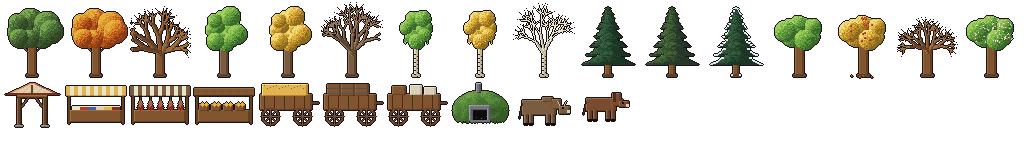
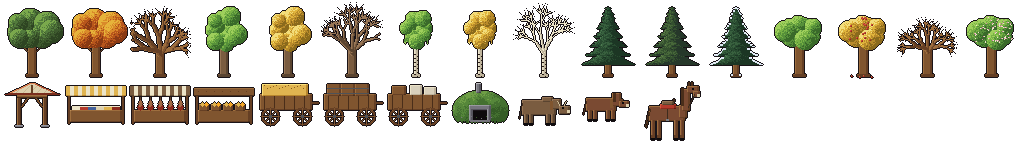
WIP checkpoint: horses/carts and trade/inventory in progress [skip ci]
Claude-Session: https://claude.ai/code/session_01JSaymTQgiZBzVi5neuBB16

Changed region(s): [[0.625, 0.5, 0.6875, 0.875]]

diff --git a/src/Ravensguard.Game/World/RideSprites.cs b/src/Ravensguard.Game/World/RideSprites.cs
@@ -17,7 +17,7 @@ public sealed class RideSprites
 {
     const int Tile = 32;
     /// <summary>How far the rider's feet are lifted: onto the horse's back, legs behind its barrel.</summary>
-    public const float RiderLift = 21f;
+    public const float RiderLift = 24f;
     public const float BenchLift = 17f;
     readonly Node2D _parent; readonly ArtAtlas _art;
     readonly Dictionary<EntityId, Sprite2D> _animals = new(), _vehicles = new();
@@ -30,13 +30,13 @@ public sealed class RideSprites
     public int Count => _animals.Count + _vehicles.Count;
 
     /// <summary>What the hero's sprite should do this frame: how far to lift it, and whether it is on a mount or a bench (a seated pose is not drawn; the standing one is).</summary>
-    public readonly record struct HeroSeat(float Lift, bool Seated);
+    public readonly record struct HeroSeat(float Lift, bool Seated, Facing Facing);
 
     public HeroSeat Sync(RideBook book, Facing heroFacing, bool heroMoving, Vector2 heroFeet, double delta, bool visible)
     {
         _t += delta; _seen.Clear();
         bool heroEast = heroFacing == Facing.East, heroWest = heroFacing == Facing.West;
-        float lift = 0f; bool seated = false;
+        float lift = 0f; bool seated = false; var seatFacing = Facing.East;
         var mounted = book.IsMounted ? book.Mounted : EntityId.None; var driving = book.DrivenVehicle;
         foreach (var a in book.Animals.Rows)
         {
@@ -47,8 +47,8 @@ public sealed class RideSprites
             if (ridden)
             {
                 if (heroEast) _flip[a.Id] = false; else if (heroWest) _flip[a.Id] = true;
-                node.Position = heroFeet + new Vector2(0, 1);
-                lift = RiderLift; seated = true;
+                node.Position = heroFeet + new Vector2(0, -1);                                  // a pixel behind the rider, so the horse is drawn first
+                lift = RiderLift; seated = true; seatFacing = _flip[a.Id] ? Facing.West : Facing.East;
                 // a little bob at a trot
                 if (heroMoving) node.Position += new Vector2(0, (float)Math.Round(Math.Sin(_t * 14) * 1.0));
             }
@@ -63,9 +63,9 @@ public sealed class RideSprites
             bool driven = driving != null && driving.Id == v.Id;
             if (driven) { if (heroEast) _flip[v.Id] = false; else if (heroWest) _flip[v.Id] = true; }
             bool west = _flip.GetValueOrDefault(v.Id, false);
-            var pos = driven ? heroFeet + new Vector2(0, -2) : ToPx(v.XMm, v.YMm);
+            var pos = driven ? heroFeet + new Vector2(0, -1) : ToPx(v.XMm, v.YMm);
             node.Position = pos; node.FlipH = west; node.Visible = visible;
-            if (driven) { lift = BenchLift; seated = true; }
+            if (driven) { lift = BenchLift; seated = true; seatFacing = west ? Facing.West : Facing.East; }
             // the team stands in front of the cart, side by side along the road
             int n = 0;
             foreach (var id in v.Team)
@@ -79,7 +79,7 @@ public sealed class RideSprites
         }
         foreach (var key in new List<EntityId>(_animals.Keys)) if (!_seen.Contains(key)) { _animals[key].QueueFree(); _animals.Remove(key); }
         foreach (var key in new List<EntityId>(_vehicles.Keys)) if (!_seen.Contains(key)) { _vehicles[key].QueueFree(); _vehicles.Remove(key); }
-        return new HeroSeat(lift, seated);
+        return new HeroSeat(lift, seated, seatFacing);
     }
 
     /// <summary>Rows are in the region frame in millimetres, the same frame the hero is drawn in (window origin added): metres times the tile size.</summary>
@@ -90,7 +90,8 @@ public sealed class RideSprites
         _seen.Add(id);
         if (map.TryGetValue(id, out var n)) return n;
         // the 64 x 48 sprites stand with their feet (or wheels) 4 px above the sheet's bottom: the node origin is the middle of the base
-        n = new Sprite2D { Texture = _art.Texture(string.IsNullOrEmpty(sprite) ? "object.draught_horse" : sprite), Centered = false, Offset = new Vector2(-32, -45), TextureFilter = CanvasItem.TextureFilterEnum.Nearest };
+        var tex = _art.Texture(string.IsNullOrEmpty(sprite) ? "object.draught_horse" : sprite);
+        n = new Sprite2D { Texture = tex, Centered = false, Offset = new Vector2(-32, -(tex.GetHeight() - 3)), TextureFilter = CanvasItem.TextureFilterEnum.Nearest };
         map[id] = n; _parent.AddChild(n);
         return n;
     }

diff --git a/tools/Ravensguard.Art/Sprites/Props.cs b/tools/Ravensguard.Art/Sprites/Props.cs
@@ -323,6 +323,31 @@ public sealed class Props
         b.Rect(bx + bw - 6, by + 1, 3, 9, P["w3"]);
     });
 
+    /// <summary>A riding horse in side view facing east, saddled (horses-and-carts spec 6): taller and finer than the draught horse, 64 x 64 with its hooves 6 rows above the bottom. The rider is the rig's "ride" pose drawn over it.</summary>
+    public PixelBuffer Mount() => Obj(64, 64, b =>
+    {
+        var coat = R["leather"];
+        int bx = 9, by = 26, bw = 36, bh = 15;
+        b.Shade(bx, by, bw, bh, coat, Top);                                                                  // barrel
+        b.Shade(bx + bw - 6, by - 1, 8, bh - 2, coat, Top);                                                  // chest
+        foreach (var lx in new[] { bx + 2, bx + 8, bx + bw - 11, bx + bw - 5 })                              // four legs, long, with hooves and a darker far pair
+        {
+            b.Shade(lx, by + bh - 1, 4, 18, coat); b.Rect(lx, by + bh + 14, 4, 4, coat[1]); b.Rect(lx, by + bh + 17, 4, 2, P["dk1"]);
+        }
+        b.Shade(bx + bw - 3, by - 17, 8, 22, coat, Top);                                                      // the neck rises to the east
+        b.Shade(bx + bw + 2, by - 20, 12, 7, coat, Top);                                                      // head
+        b.Shade(bx + bw + 8, by - 15, 7, 6, coat, Top);                                                       // muzzle
+        b.Rect(bx + bw + 12, by - 12, 3, 3, P["pl3"]); b.Rect(bx + bw + 7, by - 18, 2, 2, P["dk1"]);        // pale nose, eye
+        b.Rect(bx + bw + 3, by - 24, 2, 4, P["w1"]); b.Rect(bx + bw + 6, by - 24, 2, 4, P["w1"]);            // ears
+        b.Rect(bx + bw - 4, by - 18, 3, 18, P["w1"]);                                                         // mane down the neck
+        b.Line(bx, by + 2, bx - 4, by + 20, P["w1"]); b.Line(bx + 1, by + 3, bx - 3, by + 21, P["w1"]);     // tail
+        b.Shade(bx + 11, by - 2, 16, 5, R["red"], Top);                                                       // saddle cloth
+        b.Shade(bx + 13, by - 5, 12, 4, R["brown"], Top);                                                     // the saddle
+        b.Rect(bx + 24, by - 7, 2, 3, P["br1"]);                                                              // pommel
+        b.Line(bx + 18, by + 3, bx + 18, by + 13, P["br1"]); b.Rect(bx + 17, by + 13, 3, 2, P["m3"]);        // stirrup leather and iron
+        b.Line(bx + bw + 9, by - 12, bx + bw + 3, by + 1, P["br1"]);                                          // rein
+    });
+
     public PixelBuffer Barrow() => Obj(64, 48, b =>
     {
         for (int y = 8; y < 44; y++)

diff --git a/tools/Ravensguard.Art/Rig/RigPoses.cs b/tools/Ravensguard.Art/Rig/RigPoses.cs
@@ -7,7 +7,7 @@ public static class RigPoses
     /// <summary>Actions named in the plan (§2.7) that are not posed yet. They are listed in the index so the game can fall back.</summary>
     public static readonly string[] Todo = { "parry", "stagger", "crawl", "carry", "work" };
 
-    public static readonly string[] Actions = { "idle", "walk", "jog", "windup", "strike", "recover", "block", "hitreact", "fall" };
+    public static readonly string[] Actions = { "idle", "walk", "jog", "windup", "strike", "recover", "block", "hitreact", "fall", "ride" };
 
     static Limb L(float swing = 0, float abd = 0, float flex = 0, float end = 0) => new(swing, abd, flex, end);
 
@@ -87,6 +87,9 @@ public static class RigPoses
                     // the frame is 32 px wide, so a body lying flat cannot fit: the last frame is a collapse onto the knees
                     new Pose { TLean = 36, HPitch = 24, UpperZ = -1, LegL = L(4, 6, 104), LegR = L(-2, 6, 100), ArmL = L(40, 14, 30), ArmR = L(38, 14, 30), WSwing = 25, WAbd = 10 },
                 };
+            case "ride":
+                // sitting astride (side view): thighs forward and nearly level, shins hanging, back straight, hands forward on the reins; the horse sprite is drawn behind
+                return new[] { new Pose { TLean = 4, HPitch = 2, LegL = L(80, 4, 80, 8), LegR = L(72, 4, 74, 8), ArmL = L(40, 4, 64), ArmR = L(36, 4, 60), WSwing = 14, WAbd = 8 } };
             default: throw new ArgumentException("unknown action " + action);
         }
     }

diff --git a/src/Ravensguard.Game/World/StreetView.Ride.cs b/src/Ravensguard.Game/World/StreetView.Ride.cs
@@ -135,11 +135,8 @@ public partial class StreetView
         if (_ride == null || _rideSprites == null) return;
         RideContext();
         var seat = _rideSprites.Sync(_ride, h.Facing, h.Moving, feet, GetProcessDeltaTime(), h.Z == _viewZ);
-        if (seat.Seated)
-        {
-            _heroSprite.Position = feet + new Vector2(0, -seat.Lift);
-            _heroSprite.Pose(h.Facing == Facing.North || h.Facing == Facing.South ? h.Facing : h.Facing, "idle", 0);
-        }
+        _heroSprite.Lift = seat.Seated ? seat.Lift : 0f;
+        if (seat.Seated) _heroSprite.Pose(seat.Facing, "ride", 0);                      // sitting astride, side view; the horse's and cart's sprites are side-on too
         _rideHud?.Update(_ride, _world.Clock.Now.Seconds);
         if (_world.RideMsgSerial != _rideMsg) { _rideMsg = _world.RideMsgSerial; _router?.ShowToast(L.F(_world.LastRideKey, _world.LastRideArg)); }
     }

diff --git a/src/Ravensguard.Game/World/RigAtlas.cs b/src/Ravensguard.Game/World/RigAtlas.cs
@@ -107,6 +107,9 @@ public sealed partial class RigActor : Node2D
     }
 
     readonly record struct Slot(bool Visible, Texture2D? Tex, Vector2 Pos);
+    /// <summary>Pixels the whole figure is raised (a rider on a horse's back, a driver on a bench); the node origin stays at the ground.</summary>
+    public float Lift { get => -_flip.Position.Y; set => _flip.Position = new Vector2(0, -value); }
+
     readonly Dictionary<(Facing Facing, string Action, int Frame), Slot[]> _poses = new();
     (Facing, string, int)? _last;
 

diff --git a/tools/Ravensguard.Art/CatalogV2.cs b/tools/Ravensguard.Art/CatalogV2.cs
@@ -117,6 +117,7 @@ public static class CatalogV2
         foreach (var k in new[] { "hay", "barrels", "goods" }) { var kk = k; O64($"object.cart_{k}", 48, () => pr.CartLoaded(kk)); }
         O64("object.barrow", 48, pr.Barrow);
         O64("object.draught_ox", 48, () => pr.Draught("ox")); O64("object.draught_horse", 48, () => pr.Draught("horse"));
+        O64("object.horse_riding", 64, pr.Mount);
 
         AddMinis(l, pal, g, t);
     }

diff --git a/docs/specs/phase3/trade-inventory-character.md b/docs/specs/phase3/trade-inventory-character.md
@@ -199,3 +199,26 @@ Integer maths only; `Int128` not needed (max intermediate 400 x 10^8 = 4 x 10^10
 | Skill-use queue | <= 0.02 ms per tick |
 | Memory | hero and squad items <= 3,000 rows x 64 bytes; tracked persons 64 x (16 + 10) bytes; `Follower` and `Hire` rows < 20 KB |
 | Save | `trade/inventory` sections <= 0.5 MB for a 10-year hero |
+
+## 10. Notes (implementation, Phase 3 step 4)
+What was built, and where it departs from or settles the text above.
+
+**Code.** `src/Ravensguard.Sim/Inventory/`: `Encumbrance` (capacity, load ratio, speed and stamina factors, coin mass, all integer permille), `ContainerRules` (container definitions, item volume, longest dimension, worn slot), `Carried` (what one person carries, over the world's records). `src/Ravensguard.Sim/Trade/`: `TradeQuote`/`BookLine`/`Quotes` (first-unit, average and total from the Phase 2 integral; slippage guard; money text), `ItemPricing`, `LastHeard` (the O4 age classes and cell text), `Hiring` (reservation wage, acceptance score and noise 0x321), `Recruiting`, `Barter`, `Squad`/`Follower` (wage day, loyalty, quitting), `Progress` (named uses over the crafting spec's `SkillBook`, why a use did not count, attributes by activity day), `HeroParty` + `HeroPartySave` (the "party" section), `HeroDesk` (commands, barrier application, the `HeroView` snapshot) and `HeroWorld` (the link to a running `WorldRuntime`). Content: `content/base/items/containers.jsonc` (9 containers, `ContainerDef`) and `content/base/economy/trade.jsonc` (`TradeSettingsDef`), types in `Ravensguard.Content/Defs/TradeDefs.cs`. Namespaces are `Ravensguard.Sim.Inventory` and `Ravensguard.Sim.Trade` (the `Characters` and `Squads` namespaces of section 2 folded into `Trade`). Streams 0x320 to 0x322 are registered in `Core/RngStreams.cs`.
+
+**Settled or changed.**
+- **Where the things are.** Discrete things are rows of the home economy's `ItemTable` with `Owner = EconomyState.HeroOwner`; nesting is `ItemRow.Parent`. Counted goods sit in the hero's pack, an `OtherStores` entry of that economy keyed by the hero (`StoreKind.House`, so they spoil like house stock), not as `ContentsGood` of a container row: the goods audit (`MassAuditHolds`) and the mass ledger count stores only, and a buy from a book is a `Store.Move`. Which container each stack sits in, the worn slot of each item (`EquipSlot`, kept beside the row instead of a new `ItemRow` column so the economy section's bytes did not change) and the quick bar are in `Carried`, saved in the new "party" section with the notebook, the squad, the people known, `AttrMilli`, inspected items and the craft work clock. Coin is the ledger purse (`PurseKind.Person`, `HeroOwner`); `HeroRecord.Coin` is only the starting crowns.
+- **Migration** "hero_inventory_to_items" happens when a party is made: at new game (`NewGameWorld.Create`) or at the first barrier of a loaded game that has a hero and no "party" section (`HeroWorld.Context`). Each `HeroItem` becomes `Count` rows (Common, condition 1,000), the first of each kind worn; a belt pouch and a satchel are added. `HeroRecord.Inventory` is still written (it is the kit the hero started with, shown by the Quick Start); the game reads the item rows.
+- **Commands and barriers.** `HeroCommand`s carry the game second they were asked at and a sequence number. `HeroDesk.ApplyDue(hourDone)` applies, in sequence order, every command asked in a game hour up to the world's last finished hour, so a command always sees the records as they stood after the hour it was asked in, whatever the clock speed or how far the worker lags. `WorldRuntime` got one hook, the `AfterHour` event, raised on the worker right after an hour is stepped; there the desk runs the hour's own passes (wage day at hour 0, the crafting hourly pass for waiting work) and then the commands of that hour that arrived while it was stepping. Commands asked when the worker is idle run in an `AtBarrier` job at once (`HeroWorld.Issue`), so at 1x a deal settles in a frame or two. The order "passes of hour h, then commands of hour h" is fixed, and the test plays the same script at 1x and 8x on the real worker with uneven frames: the records hash, the party bytes and every result are equal. The Phase 2 `EconCommand` queue was not used: its batches are drained by whatever hour starts next, which depends on timing when the worker lags, and its replay log would re-inject deferred commands.
+- **Quotes** are computed on the main thread from `BookLine`s frozen at the barrier (stock, Ref, target, clamps, spread, toll), the same integer arithmetic as `MarketBook.QuoteBuy` and `SellToMerchants`. T-9 reads 194.4 and 165.6 mites/kg first unit, 3,888 and 3,312 less a 166 toll = 3,146 (the stock must be at least the 20 kg bought; 50 kg sits in the flat 4x part). A buy carries `Limit = quote + 2%`, a sale `quote - 2%`; when the book moved, the result is `PriceMoved` and nothing changes (T-10). A sale goes to the book's merchants (`SellToMerchants`); perishables are refused like the merchants refuse them. Individual items are sold to and bought from a merchant at `ItemPricing` (70% until inspected), the row simply changing owner. Market hours 06:00 to 18:00 come from the command's own game second.
+- **Price talk.** A visit (opening the trade screen, any deal) reads the book exactly; the merchants also tell the prices of up to six nearest other markets of the region, dated a day per 25 km (at least one) plus `book index mod 5` days, never replacing a newer note. Walking through a market square once a day and asking "How are prices in X?" in dialogue are not wired (the dialogue spec's). The Trading skill's spread narrowing (open question 1 default) is not applied.
+- **Barter** values counted goods at the local book's mid, items at their value; food is wanted (+20%) by a household in the Survive tier. The screen offers coin at 1.25 x worth when taking a person's goods and 0.8 x when giving yours, so the acceptance rule passes.
+- **Hiring.** T-12's numbers leave out the trust discount the formula of 4.6 has: with trust 100 the formula gives `R = 184` and scores 988 and 1,069 (outcomes as in the spec: refused, accepted); the tests check both the spec's 186/977/1,058 (`R` without the discount) and the formula. "Head of a household with dependants and a good job" is read as: an employed adult of 25 or more with a spouse in a household of two or more. Familiarity rises 10 and trust 25 per talk (once per game hour per person); the personal reason is known at familiarity 20 (the reason shown is the wage; ambition fit, debt relief and gratitude wait for the dialogue spec). A recruit's household is warned it loses an earner; the worker's old employer slot and the household's `Income15d` are not changed yet.
+- **Wages** are paid at hour 0 from the hero's purse to the member's household purse (`TransferReason.Wage`); three unpaid days (or loyalty 0) and they quit, leave the party and the chronicle gets a `squad_member_quit` entry (T-14). A hire's term ends after its last day. The +20/+50/-150/-300 loyalty events of camp, talk at night and danger wait for the travel spec.
+- **Orders.** Follow, Hold (with the place), Rest and Work are recorded on the follower; Work claims the nearest open odd job through the job table (`JobTable.ClaimAll`, the member as worker), so it is paid by the job system. Walking behind the hero needs the LODBridge to keep squad members live within 150 m of the hero (`Live/`, not built here): the order is stored and the squad panel and party bar show it.
+- **Encumbrance.** `HeroView` carries mass (items, pack, coin), capacity and `r`. The street view stands in for the speed factor by the gait (no sprint above 0.5, walk above 1.0, no movement above 1.5) until the live hero's step takes `Encumbrance.SpeedPm` (a one-line change in `LiveWorld.SpeedOf`, which belongs to the live-behaviour and horses work). Stamina has no live meter yet; the factor is shown.
+- **Crafting on the world.** The crafting screen no longer keeps its own economy in a running game: starting, working, pausing, resuming and collecting are `CraftStart/CraftWork/CraftPause/CraftResume/CraftCollect` commands; the job, its components (the job's store) and the result live in the world's `CraftState` and economy, are saved, and an attended job advances by the game seconds the hero worked (`CraftWork` carries "worked until", sent twice a real second while the screen is open, so it follows the world clock and its speed); the x1/x2/x4 buttons set the world's speed. Waiting work runs the hourly pass on the world clock. The screen plans on a mirror of the hero's pack and crafting state copied from each `HeroView`. The site (tools in the kit, the hearth, bench, oven, forge and anvil, light by the hour) is still given to the screen, not read from the stations in reach. The dev hamlet (no world) keeps the old starter bundle.
+- **Keys.** C, I and P are the World `panel_character`, `panel_inventory` and `panel_squad`; E beside a person opens the trade screen (else the portal, as before). The trade screen has its own modal context `Trade` (up, down, less, more, confirm, pane, notebook N, cancel); Shift and Ctrl are read with Left/Right. `--check-keymap` reports no conflicts.
+
+**Not done.** Drop, give, throw, split stack, take all (R) and loot windows; ground containers and the theft flag; liquids beyond the container tag; hands (25 kg, 40 L) and the shouldered sack; the quick bar's use; the route hint; the Body tab's paper doll (Phase 4); traits; trading in a region other than the home region (its book is in another region's ledger); NPC packs and stream 0x322 (registered, not drawn); attribute activity-day tracking from live work (the rule is in `Progress.AttrDay`, nothing calls it yet); promote/demote cycles in T-15 (the LODBridge's own tests cover them).
+
+**Tests** (`tests/Ravensguard.Sim.Tests/Trade/`): T-1 to T-16 as written (T-15 runs 1,000 random buys and sells and item sales through the desk with coin, goods, items and both audits exact), per-unit price moves, the 1x/8x barrier test on the real worker, a command waiting for its hour, save-load-save byte-identical with a full pack, an unfinished craft and a hired hand (and the loaded job working on), barter, hire wages and term, stowing and load, equip and put away, price talk ages, and the C/I/P keys (a source check of `InputDefs.cs`).
